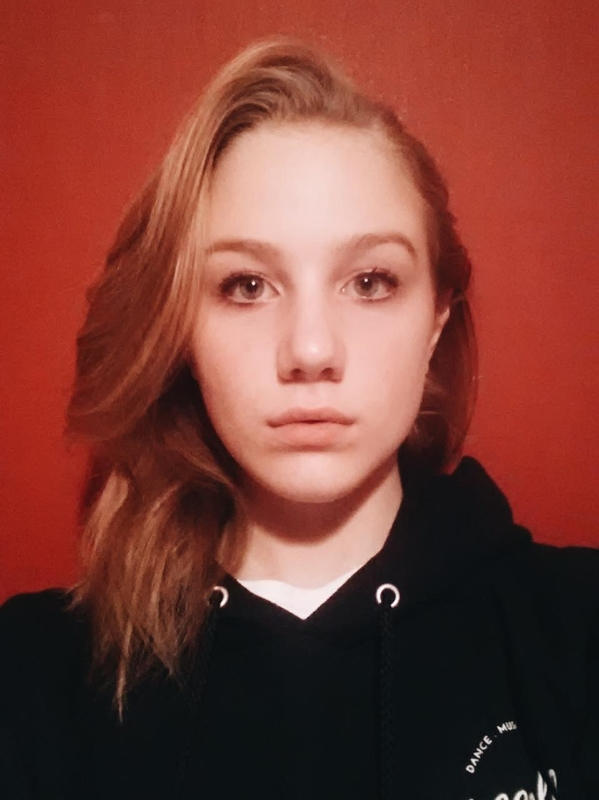
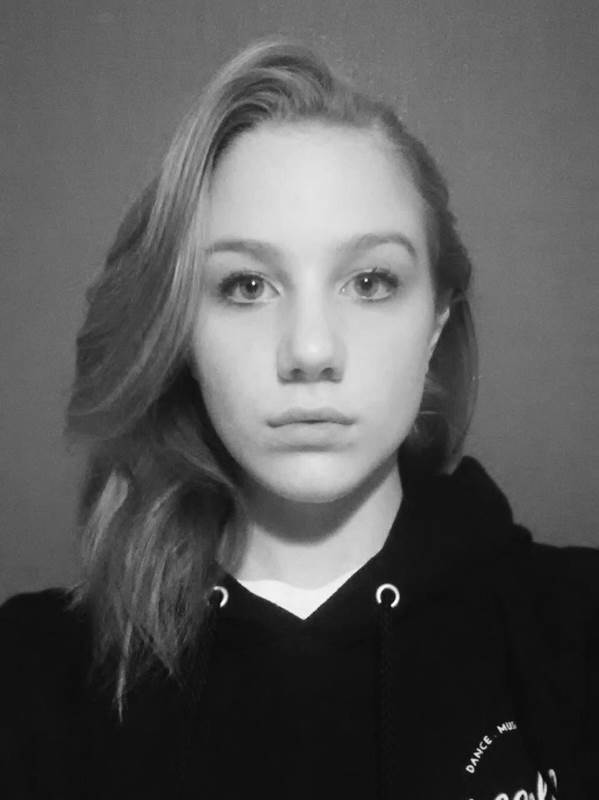
changed images to black and white

diff --git a/index.html b/index.html
@@ -114,7 +114,7 @@
                     <img class="galleryImg" src="img/heidi-photo.jpg">
                   </div>
                   <div class="col-xs-6 imageContainter">
-                    <img class="galleryImg" src="img/heidi-drawing.png">
+                    <img class="galleryImg" src="img/heidi-drawing.jpg">
                   </div>
                 </div>
                 <div class="imageRow">
